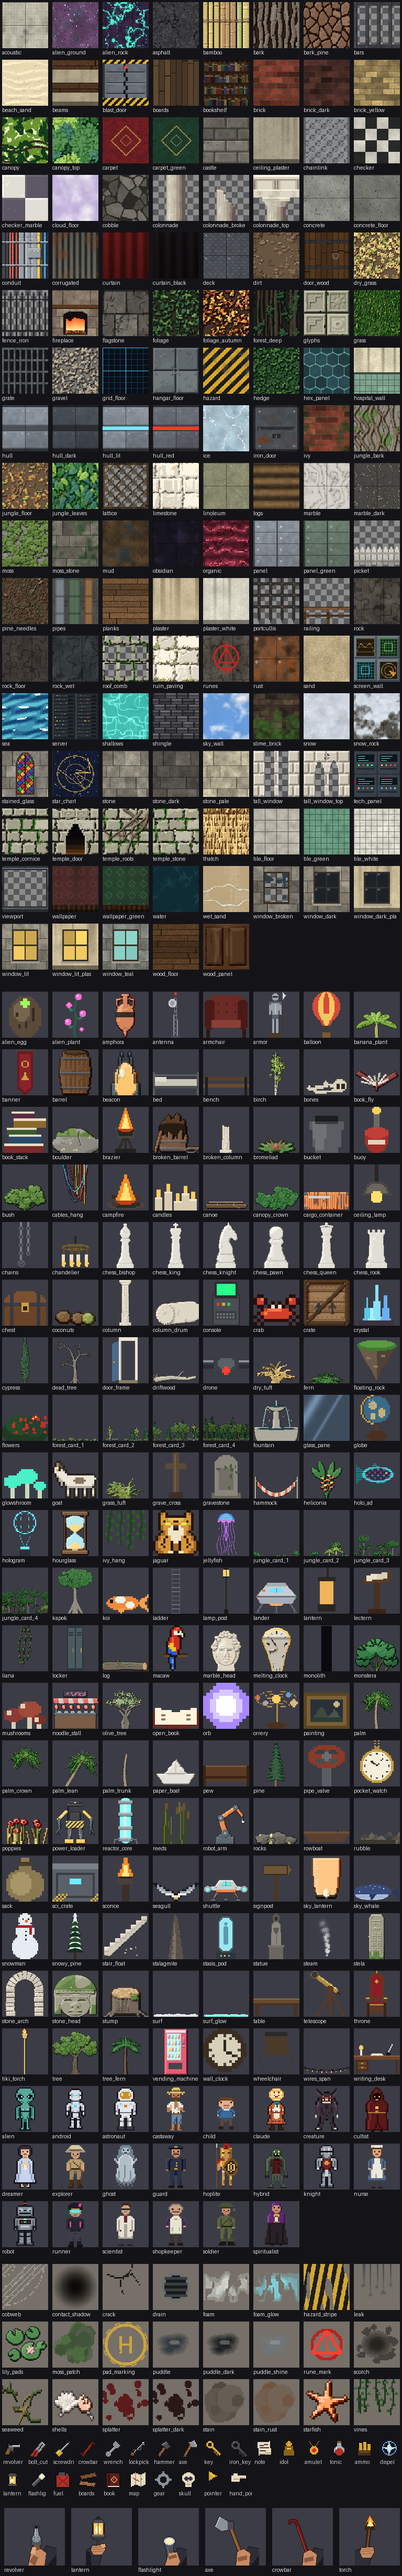
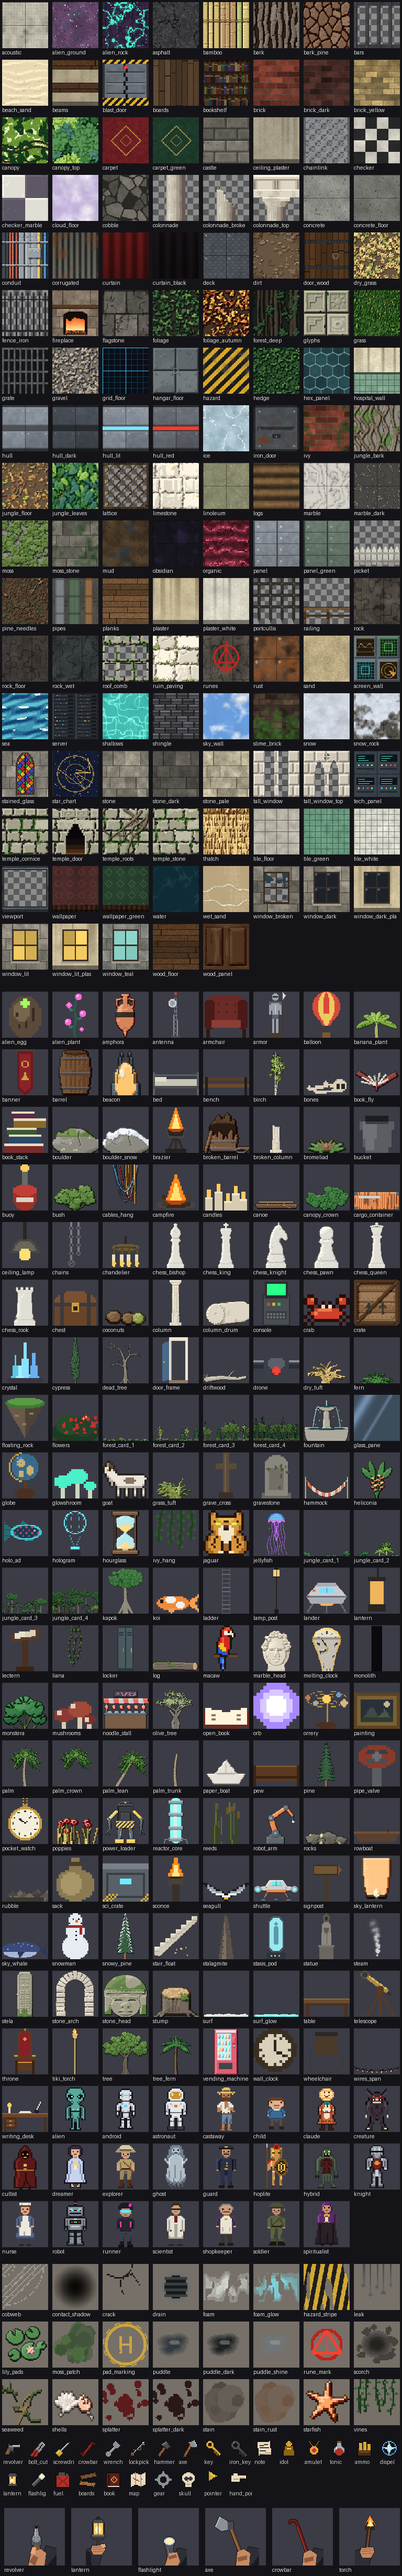
Put snow on the new spruce, and give winter a snow-capped boulder
snowy_pine was the last tree still drawn the first way, flat triangles with snow painted on. It
is now the toolkit spruce under snow: clumps lying along every tier's shoulders, thickest near
the trunk and gone before the drooping tips, crumbs on the hems, a small cap on the leader. The
snow is drawn from its own random stream, so the bare pine is unchanged pixel for pixel.

boulder_snow is the boulder with a cushion of snow over its top instead of moss, deep where the
rock is flat and thin down its steep sides. A `snow` scatter set (stones and snow-capped
boulders) replaces `stones` on the winter lake, whose boulders showed green moss on the snow.

Docs, counts (153 props, 14 scatter sets) and the asset inventory updated; winter gallery shots
and the catalog rebuilt.

Changed region(s): [[0.0, 0.4043, 1.0, 0.8707]]

diff --git a/scripts/forest.py b/scripts/forest.py
@@ -23,6 +23,7 @@ BIRCH_MARK = ramp('#2a2622', dark=0.6, light=1.6)
 FOREST_SOIL = ramp('#4a3a2a', dark=0.35)
 FOREST_MOSS = ramp('#4e6e2c', dark=0.3)
 STONE = ramp('#7a786e', dark=0.35)
+SNOW = ramp('#e2eaf2', dark=0.5, light=1.07, warm=0.0, cool=0.25)
 
 
 def _along(pts, t):
@@ -38,11 +39,10 @@ def _along(pts, t):
 
 # ---------------------------------------------------------------- trees
 
-def spr_pine():
-    """A spruce: a straight trunk under tier on tier of drooping boughs. Each tier is a skirt of
-    needles with a ragged hem hanging over the tier below; lit from the upper left, so every
-    tier has a bright shoulder and a dark underside, and the heart of the tree is in shadow."""
+def _spruce(snow=False):
+    """The spruce, bare or under snow (see spr_pine and spr_snowy_pine)."""
     rng = np.random.default_rng(31)
+    srng = np.random.default_rng(37)        # the snow's own stream, so the bare tree never changes
     w, h = 72, 168
     cx = w / 2
     cv = Canvas(w, h, wrap=False, ground=-9)
@@ -73,7 +73,46 @@ def spr_pine():
             L = rng.uniform(3, 6)
             cv.stroke([(x, y), (x + np.cos(a) * L, y + np.sin(a) * L)], 1.4, z=z + 0.9, dome=0.5,
                       taper=(1.0, 0.5), mat=0, tone=rng.normal(0.02, 0.04))
-    return _prop(cv, [NEEDLE, PINE_BARK], relief=1.0, cavity=0.5, shadow=0.55, reach=6)
+        if snow:
+            _snow_tier(cv, srng, cx, hem, half, tall, skew, drop, z + 1.4, t)
+    if not snow:
+        return _prop(cv, [NEEDLE, PINE_BARK], relief=1.0, cavity=0.5, shadow=0.55, reach=6)
+    cv.ellipse(cx - 0.3, top + 5, 1.2, 1.8, z=3.4, dome=0.8, mat=2)      # a cap on the leader
+    return _prop(cv, [NEEDLE, PINE_BARK, SNOW], relief=1.0, cavity=0.5, shadow=0.55, reach=6)
+
+
+def _snow_tier(cv, rng, cx, hem, half, tall, skew, drop, z, t):
+    """Snow lying on one tier of a spruce: clumps along both shoulders, thickest a little way out
+    from the trunk where the boughs are flattest, thinning to nothing before the drooping tips,
+    and a soft drift across the middle where the tier above does not cover it."""
+    k = float(np.clip(half / 14.0, 0.35, 1.0))     # small tiers near the top carry small clumps
+    for side in (-1, 1):
+        reach = half * (1 + skew * side)
+        for f in np.linspace(0.18, rng.uniform(0.72, 0.9), 4 + int(6 * t)):
+            x = cx + side * reach * f
+            y = hem - tall + (tall + drop * f * f) * f - 1.2
+            fat = np.sin(np.pi * min(1.0, f * 1.15)) ** 0.7
+            cv.ellipse(x + rng.normal(0, 0.6), y + rng.normal(0, 0.4), (1.6 + 2.6 * fat * rng.uniform(0.8, 1.2)) * k,
+                       (0.9 + 1.2 * fat) * max(k, 0.6), z=z, dome=0.7, rough=0.25, rng=rng, mat=2,
+                       tone=0.03 * side * -1)
+        for _ in range(int(2 + 3 * t)):     # crumbs fallen onto the hem below the shoulder
+            f = rng.uniform(0.3, 0.8)
+            cv.ellipse(cx + side * reach * f, hem - 1 + rng.uniform(-1, 1.5), rng.uniform(0.8, 1.6),
+                       rng.uniform(0.6, 1.0), z=z, dome=0.5, mat=2, tone=-0.04)
+
+
+def spr_pine():
+    """A spruce: a straight trunk under tier on tier of drooping boughs. Each tier is a skirt of
+    needles with a ragged hem hanging over the tier below; lit from the upper left, so every
+    tier has a bright shoulder and a dark underside, and the heart of the tree is in shadow."""
+    return _spruce()
+
+
+def spr_snowy_pine():
+    """The spruce after a snowfall: snow lying in clumps along every tier's shoulders, thickest
+    near the trunk and gone before the drooping tips, crumbs of it on the hems, and a cap on the
+    leader. Dark needles show between the tiers, so it still reads as a spruce at a distance."""
+    return _spruce(snow=True)
 
 
 def spr_tree():
@@ -166,9 +205,8 @@ def _rings(cv, cx, cy, rx, ry, n):
         cv.stroke(list(zip(cx + np.cos(a) * rx * f, cy + np.sin(a) * ry * f)), 0.7, dome=0.25, mode='carve')
 
 
-def spr_boulder():
-    """A boulder settled into the ground: a rounded mass with a lesser lobe and a crack or two,
-    lit from the upper left, moss over its top and a few spots of lichen."""
+def _boulder(snow=False):
+    """The boulder, mossy or under snow (see spr_boulder and spr_boulder_snow)."""
     rng = np.random.default_rng(61)
     w, h = 48, 34
     cv = Canvas(w, h, wrap=False, ground=-9)
@@ -179,6 +217,8 @@ def spr_boulder():
     cv.noise(0.15, cells=8, rng=rng)
     solid = cv.id > 0
     moss = (smooth_noise(w, h, 5, rng, wrap=False) > 0.48) & solid & (np.arange(h)[:, None] < h * 0.48)
+    if snow:
+        return _snowcap(cv, rng, solid)
     cv.mat[moss] = 1
     cv.z[moss] += 0.2
     ys, xs = np.nonzero(solid & ~moss)
@@ -186,6 +226,36 @@ def spr_boulder():
         cv.ellipse(xs[i], ys[i], rng.uniform(0.8, 1.5), rng.uniform(0.6, 1.1), z=cv.z[ys[i], xs[i]] + 0.05, dome=0.1,
                    mat=2, rough=0.3, rng=rng)
     return _prop(cv, [STONE, FOREST_MOSS, LICHEN], relief=1.1, cavity=0.5, shadow=0.5)
+
+
+def _snowcap(cv, rng, solid):
+    """Snow over the top of a rock: in each column, a layer from the top of the rock down, deep
+    where the top is flat and thin where it falls away steeply, with a soft lumpy lower edge."""
+    h, w = solid.shape
+    rows = np.arange(h)[:, None]
+    has = solid.any(0)
+    top = np.where(has, solid.argmax(0), h).astype(np.float32)
+    slope = np.abs(np.gradient(np.where(has, top, np.nan)))
+    slope = np.nan_to_num(slope, nan=9.0)
+    lump = smooth_noise(w, 1, 7, rng, wrap=False)[0]
+    depth = np.clip(6.5 - 1.6 * slope, 0.0, 7.0) * (0.75 + 0.5 * lump)
+    cap = solid & (rows < top[None, :] + depth[None, :])
+    cv.mat[cap] = 3
+    cv.z[cap] += 0.45
+    cv.tone[cap] = 0.0
+    return _prop(cv, [STONE, FOREST_MOSS, LICHEN, SNOW], relief=1.1, cavity=0.5, shadow=0.5)
+
+
+def spr_boulder():
+    """A boulder settled into the ground: a rounded mass with a lesser lobe and a crack or two,
+    lit from the upper left, moss over its top and a few spots of lichen."""
+    return _boulder()
+
+
+def spr_boulder_snow():
+    """The boulder under snow: a cushion of it over the top, deep where the rock is flat and thin
+    down the steep sides, the grey rock showing below - for a winter shore instead of moss."""
+    return _boulder(snow=True)
 
 
 def spr_stump():
@@ -443,9 +513,10 @@ TEXTURES = {
 # how strongly the world-space surface noise varies each texture (see assets.TEXTURE_NOISE)
 TEXTURE_NOISE = {'forest_deep': 1.6}
 SPRITES = {'pine': spr_pine, 'tree': spr_tree, 'birch': spr_birch, 'bush': spr_bush, 'boulder': spr_boulder,
-           'stump': spr_stump, 'log': spr_log, 'dead_tree': spr_dead_tree}
+           'stump': spr_stump, 'log': spr_log, 'dead_tree': spr_dead_tree, 'snowy_pine': spr_snowy_pine,
+           'boulder_snow': spr_boulder_snow}
 SPRITES.update({f'forest_card_{k}': (lambda k=k: _forest_card(k)) for k in (1, 2, 3, 4)})
-SPRITE_HEIGHT = {'pine': 3.4, 'tree': 2.6, 'birch': 3.0, 'bush': 0.5,
+SPRITE_HEIGHT = {'pine': 3.4, 'tree': 2.6, 'birch': 3.0, 'bush': 0.5, 'snowy_pine': 3.4, 'boulder_snow': 0.55,
                  'forest_card_1': 1.2, 'forest_card_2': 3.0, 'forest_card_3': 4.0, 'forest_card_4': 4.8}
 # fringe sets: cards back to front, for a wall's `fringe`
 FRINGES = {'forest': ['forest_card_4', 'forest_card_3', 'forest_card_2', 'forest_card_1']}

diff --git a/scripts/assets.py b/scripts/assets.py
@@ -1830,23 +1830,6 @@ def spr_glowshroom():
     return _finish(im, em, w, h)
 
 
-def spr_snowy_pine():
-    w, h = 48, 112
-    im, d, em, de = _canvas(w, h)
-    S = 4
-    d.rectangle([21 * S, 84 * S, 27 * S, 112 * S], fill='#3a2a1c')
-    for i in range(7):
-        half = 23 - 16 * (i / 6.0)
-        base = 96 - 13 * i
-        d.polygon([((24 - half) * S, base * S), ((24 + half) * S, base * S), (24 * S, (base - 26) * S)],
-                  fill=('#16301c', '#1e3c22', '#264828')[i % 3])
-        # snow along each tier's upper slopes
-        d.polygon([((24 - half * 0.75) * S, (base - 6) * S), (24 * S, (base - 26) * S),
-                   ((24 + half * 0.75) * S, (base - 6) * S), (24 * S, (base - 12) * S)], fill='#dce6ee')
-    d.polygon([(19 * S, 20 * S), (29 * S, 20 * S), (24 * S, 0)], fill='#e8eef4')
-    return _finish(im, em, w, h)
-
-
 def spr_snowman():
     w, h = 22, 34
     im, d, em, de = _canvas(w, h)
@@ -2334,7 +2317,7 @@ SPRITES = {
     'reeds': spr_reeds, 'ivy_hang': spr_ivy_hang,
     'throne': spr_throne, 'armor': spr_armor, 'chains': spr_chains, 'chest': spr_chest,
     'table': spr_table, 'pew': spr_pew, 'stalagmite': spr_stalagmite, 'crystal': spr_crystal,
-    'glowshroom': spr_glowshroom, 'snowy_pine': spr_snowy_pine, 'snowman': spr_snowman,
+    'glowshroom': spr_glowshroom, 'snowman': spr_snowman,
     'grave_cross': spr_grave_cross, 'ladder': spr_ladder, 'lectern': spr_lectern,
     'stasis_pod': spr_stasis_pod, 'hologram': spr_hologram, 'sci_crate': spr_sci_crate,
     'drone': spr_drone, 'lander': spr_lander, 'antenna': spr_antenna,
@@ -2361,7 +2344,7 @@ SPRITE_HEIGHT = {
     'bones': 0.22, 'sack': 0.42, 'bucket': 0.32, 'broken_barrel': 0.46,
     'reeds': 0.8, 'ivy_hang': 0.8,
     'throne': 0.95, 'armor': 0.66, 'chains': 0.6, 'chest': 0.3, 'table': 0.36, 'pew': 0.42,
-    'stalagmite': 0.8, 'crystal': 0.36, 'glowshroom': 0.16, 'snowy_pine': 3.4, 'snowman': 0.62,
+    'stalagmite': 0.8, 'crystal': 0.36, 'glowshroom': 0.16, 'snowman': 0.62,
     'grave_cross': 0.55, 'ladder': 1.0, 'lectern': 0.5,
     'stasis_pod': 1.0, 'hologram': 0.55, 'sci_crate': 0.35, 'drone': 0.22, 'lander': 1.6,
     'antenna': 2.4, 'alien_plant': 1.1, 'monolith': 2.2, 'orb': 0.2, 'alien_egg': 0.35,
@@ -2394,6 +2377,7 @@ SIZE_WEIGHTS = {'tiny': 5, 'small': 4, 'medium': 2.5, 'large': 1, 'huge': 0.3}
 # with the odd boulder, not an even mix.
 DEBRIS_SETS = {
     'stones': ['rocks', 'rocks', 'rocks', 'boulder'],
+    'snow': ['rocks', 'rocks', 'rocks', 'boulder_snow'],
     'rubble': ['rubble', 'rubble', 'rocks', 'broken_barrel'],
     'forest': ['rocks', 'rocks', 'log', 'stump', 'mushrooms', 'grass_tuft', 'grass_tuft',
                'fern', 'bush'],

diff --git a/examples/winter_lake.py b/examples/winter_lake.py
@@ -51,7 +51,7 @@ s = scene(
         {'id': 'child', 'x': 24.8, 'y': 31.4, 'type': 'child'},
         {'x': 14.0, 'y': 30.0, 'type': 'log'}, {'x': 25.5, 'y': 9.6, 'type': 'crate'},
     ],
-    scatter=[{'of': 'stones', 'on': 's', 'density': 0.06, 'sizes': ['tiny', 'small', 'medium'], 'seed': 7}],
+    scatter=[{'of': 'snow', 'on': 's', 'density': 0.06, 'sizes': ['tiny', 'small', 'medium'], 'seed': 7}],
     camera={'x': 20.0, 'y': 32.0, 'look_at': [20.0, 7.0, 0.7], 'fov': 70},
     shots=[
         {'x': 20.0, 'y': 32.0, 'look_at': [20.0, 7.0, 0.75], 'fov': 70,

diff --git a/SKILL.md b/SKILL.md
@@ -76,13 +76,13 @@ Stack effects or use presets in `"post"`: crt, crt_amber, crt_green, vhs, gamebo
 - **Alien worlds**: the `alien` sky with a huge `ringed` planet and a moon or two in `sky_objects`, a `sun` light to match their lit side, `alien_ground` with outcrops of `alien_rock` (glowing veins), a pool of tinted water, `alien_plant`, `crystal`, a `monolith` on a raised plateau, and the `alien` scatter set; a `lander` and an `astronaut` for the visitors, the `alien` for the locals. See `examples/alien_world.py`.
 - **Dreams and the surreal**: fill the map with void and draw islands on it under the `dream` sky. They float over a sea of cloud, each with a ragged cliff underneath (`side` sets its texture). Then add a `sky_wall` with a door in it, a staircase to nowhere (`heights` with `height_unit` 0.3), a mirror lake (`obsidian` with `reflect` 0.9), and things adrift at a set `z`: `orb`, `koi`, `sky_whale`, `pocket_watch`, `floating_rock`, `balloon`. An `eye` in `sky_objects` watches. The `dream` post preset blows out bright pastel scenes, so use a gentle `bloom` instead. For impossible architecture: a plain of `checker_marble` (it mirrors), a marble chess set scaled up into a giant game (`chess_pawn` to `chess_king`, tinted dark for one side), a `clock` in `sky_objects` with `melt`, a `melting_clock` over a plinth, `stone_arch`es and `stair_float`s hung in the air, a stair out of the floor to a lone `door_frame`, a hole of void cells in the floor (give its rim a `sky_wall` side), `paper_boat`s on the polish. A drowned library: `bookshelf` walls three storeys high between `tall_window`s, a floor of `water` with `drop` and a high `reflect`, an island of books, and the air full of `jellyfish`, `sky_lantern`s, `book_fly`s, koi and a `sky_whale`; open a few cells of the roof as skylights and the sun comes down through them in beams in a dark, dense fog. See `examples/dream_world.py`, `dream_chess.py` and `drowned_library.py`.
 - **Jungle, ruins and beaches**: a jungle is walls of `jungle_leaves` at a few heights (2.5-4) with `canopy_top` tops and `"fringe": "jungle"`, which stands four layered cards of trees and bushes in front of every face that looks onto open ground - so leave a cell of open ground in front of the walls for it, and make paths two cells wider than they should look. Add a `canopy` ceiling over the paths with a few cells left open for shafts of sun in the mist, `kapok` giants standing clear of it, and `canopy_crown` props on the wall tops so its edge is rounded crowns; plants (`banana_plant`, `monstera`, `heliconia`, `tree_fern`, `liana`, the `jungle` scatter set), a `jaguar` and a `macaw`. A stepped pyramid is rings of `heights` a unit apart, each tier's wall stack ending in `temple_cornice`, stairs up one face, a `temple_door` shrine and a `roof_comb`. Classical ruins: the colonnade wall stacks, `column` props scaled to ~3 along a sacred way, `limestone`, `ruin_paving`, `dry_grass`, `cypress`, `olive_tree`, `marble_head`, `goat`, a `hoplite`, the `ruins` scatter set, under `golden`. A beach: `beach_sand`, a band of `wet_sand`, `shallows` then `sea`, all at ground level; a row of `surf` props along the waterline, `palm` and `palm_lean`, a hut of `["bamboo", "thatch"]` walls, `tiki_torch`, `canoe`, `hammock`, the `beach` scatter set and the `islands` skyline under `sunset`. See `examples/jungle_temple.py`, `ancient_ruins.py`, `tropical_beach.py`.
-- **Castles and dungeons**: `castle` walls, `flagstone` floors, `beams` ceilings, `stained_glass` (glows) in a storey of the wall, `portcullis` and `bars` for gates and cells, with `throne`, `armor`, `banner`, `chains`, `chest`, `table`, `sconce` and `brazier`. Chapels: `stone_pale`, `pew` with `stretch`, `lectern`, `candles` on a raised altar. Caves: `rock_wet` round a sunken pool, `crystal` and `glowshroom` with coloured lights, `stalagmite`, the `cave` scatter set. Sewers: `slime_brick`, `pipes`, a sunken channel with `railing`. Winter: `snow`, `ice` (reflective), `snow_rock`, `snowy_pine`, `snowman`. See `examples/castle_keep.py`, `chapel_graveyard.py`, `crystal_cave.py`, `sewer_tunnels.py`, `winter_lake.py`.
+- **Castles and dungeons**: `castle` walls, `flagstone` floors, `beams` ceilings, `stained_glass` (glows) in a storey of the wall, `portcullis` and `bars` for gates and cells, with `throne`, `armor`, `banner`, `chains`, `chest`, `table`, `sconce` and `brazier`. Chapels: `stone_pale`, `pew` with `stretch`, `lectern`, `candles` on a raised altar. Caves: `rock_wet` round a sunken pool, `crystal` and `glowshroom` with coloured lights, `stalagmite`, the `cave` scatter set. Sewers: `slime_brick`, `pipes`, a sunken channel with `railing`. Winter: `snow`, `ice` (reflective), `snow_rock`, `snowy_pine`, `boulder_snow`, `snowman`, and the `snow` scatter set (stones and snow-capped boulders) instead of `stones`, whose boulders are mossy. See `examples/castle_keep.py`, `chapel_graveyard.py`, `crystal_cave.py`, `sewer_tunnels.py`, `winter_lake.py`.
 - **Interiors**: wall height = `ceiling_height`; lights near walls give textures gradients; break long corridors with doorways and spilled light.
 - **Composition**: one-point perspective down a corridor or path is the classic; 20-40 degrees off-axis adds variety; a close character on one side with the scene behind makes strong encounter shots.
 - **City streets**: build each block of buildings one cell back from where its fronts should stand and give its cells a `facade` (`{"style": ["brick", "sooty"], "storeys": [3, 6], "lit": 0.5, "shops": 0.4}`): the fronts become separate buildings of different heights and brick, with windows set back in the walls, glass, curtains and lit or dark rooms behind. Then pavement, then a road sunk a kerb's height (`drop` 0.05) between, `street_lamp` prefabs, `wet` ground and rain. Show the depth from the pavement, looking along the buildings. Any sprite with `"glass": true` is glass: it shows what is behind it, tinted light blue and softly blurred; `glass_pane` is a plain pane. For a cyberpunk street use `"style": "neon"` (signs on the walls, blade signs over the street, shutters, tinted rooms) with `wires_span` across overhead, a `holo_ad`, a `noodle_stall`, `vending_machine`s, `steam` from the drains and coloured lights under the signs so their colour lands on the wet street; a `bloom` post makes the neon glow. See `examples/rain_alley.py` and `neon_street.py`.
 - **Prefabs place a group with one line**: `{"type": "campsite", "x": 12.5, "y": 20.5}` puts down a fire, logs, stones and its light; `beach_hut` brings its own walls, door, window, roof, torches and lights; `palm_grove`, `jungle_clump`, `fern_bed`, `ruined_columns`, `altar_fire`, `graves`, `street_lamp`, `tiki_torches`, `shrine`, `palm_3d`, `jungle_bush`. `angle` turns one, `seed` varies it. Define your own in `prefab_defs` when a scene repeats a group.
 - **Plants have body**: ferns, grass tufts, bromeliads, banana plants, monstera and other low plants stand as crossed planes (`planes` 2 or 3) rather than billboards, so they look solid from any side; trees stay billboards. Set `"planes": 0` for a flat billboard, or `planes` on any sprite to stand it in the world.
-- **Scatter debris rather than placing it.** `scatter` fills a floor with weighted, size-varied clutter from one line (`{"of": "stones", "on": "s", "density": 1.5}`); sets are `stones`, `rubble`, `forest`, `undergrowth`, `shore`, `litter`, `wreckage`, `cave`, `alien`, `derelict`, `jungle`, `beach`, `ruins`. Density 0.3 is a dusting, 1.5+ is a stony beach. It avoids cameras and speaking characters by itself.
+- **Scatter debris rather than placing it.** `scatter` fills a floor with weighted, size-varied clutter from one line (`{"of": "stones", "on": "s", "density": 1.5}`); sets are `stones`, `snow`, `rubble`, `forest`, `undergrowth`, `shore`, `litter`, `wreckage`, `cave`, `alien`, `derelict`, `jungle`, `beach`, `ruins`. Density 0.3 is a dusting, 1.5+ is a stony beach. It avoids cameras and speaking characters by itself.
 - **Reach for `grime` when somewhere is neglected.** One 0-1 number raises surface variation, debris density and wall/floor wear together, which is usually what "this place is filthy" means.
 - **Dress the floor.** An empty floor is the clearest sign of an unfinished frame. Scatter a few ground props (`rocks`, `rubble`, `bones`, `grass_tuft`, `reeds`, `sack`, `bucket`, `broken_barrel`) and stamp `decals` (puddles, stains, cracks, scorch, moss) along the route the camera actually looks down. A handful placed in shot beats a carpet placed everywhere - check with `--map` that they fall inside the view cone.
 - **Decals over new textures.** Wet patches, blood, vines, soot, water damage and cracks are `decals`, not new wall textures: they cost nothing, stack, and can sit anywhere on a surface. Use `puddle_shine` wherever a light reaches and `puddle_dark` only in dim interiors - a dark puddle on a lit floor reads as a hole.

diff --git a/docs/ASSETS.md b/docs/ASSETS.md
@@ -22,13 +22,13 @@ The smoke test fails while this file is out of date. Sheets show textures tiled 
 | | count | good | polish | rework | new |
 |---|---|---|---|---|---|
 | Textures | 133 | 109 | 24 | 0 | 0 |
-| Props | 152 | 138 | 14 | 0 | 0 |
+| Props | 153 | 139 | 14 | 0 | 0 |
 | Characters | 22 | 20 | 2 | 0 | 0 |
 | Decals | 24 | 19 | 5 | 0 | 0 |
 | Skies | 11 | 11 | 0 | 0 | 0 |
 | Skylines | 6 | 5 | 1 | 0 | 0 |
 | Sky objects | 6 | 6 | 0 | 0 | 0 |
-| Scatter sets | 13 | 13 | 0 | 0 | 0 |
+| Scatter sets | 14 | 14 | 0 | 0 | 0 |
 | Fringe sets | 2 | 2 | 0 | 0 | 0 |
 | Facade styles | 4 | 3 | 1 | 0 | 0 |
 | Prefabs | 13 | 13 | 0 | 0 | 0 |
@@ -39,7 +39,7 @@ The smoke test fails while this file is out of date. Sheets show textures tiled 
 | Post presets | 20 | 20 | 0 | 0 | 0 |
 | Palettes | 9 | 9 | 0 | 0 | 0 |
 | Example scenes | 38 | 31 | 7 | 0 | 0 |
-| **all** | **506** | **446** | **60** | **0** | **0** |
+| **all** | **508** | **448** | **60** | **0** | **0** |
 <!-- /summary -->
 
 ## Pass plan
@@ -250,7 +250,7 @@ Weakest first, and in the order the new scenes need them.
 | `bamboo` | polish |  | tropical_beach | The nodes still line up into a grid across the poles. |
 | `thatch` | polish |  | tropical_beach | The rows could be clearer, each with a shadow under its fringe. |
 
-## Props (152)
+## Props (153)
 
 Camera-facing sprites. "tall" is the default height in world units (a wall is 1); "no shadow" props hang, float or burn, so they get no contact shadow.
 
@@ -303,7 +303,7 @@ Camera-facing sprites. "tall" is the default height in world units (a wall is 1)
 
 | prop | status | traits | used in | notes |
 |---|---|---|---|---|
-| `boulder` | good | 0.55 tall | chapel_graveyard, coast_lighthouse, misty_moor, winter_lake, woodland_night | Redrawn with the toolkit in forest.py: a settled rock with a lesser lobe and cracks, moss over its top, lichen spots. |
+| `boulder` | good | 0.55 tall | chapel_graveyard, coast_lighthouse, misty_moor, woodland_night | Redrawn with the toolkit in forest.py: a settled rock with a lesser lobe and cracks, moss over its top, lichen spots. |
 | `bush` | good | 0.5 tall | chapel_graveyard, coast_lighthouse, woodland_night | Redrawn with the toolkit in forest.py: leaf clusters on fanned twigs, lit on top, dark underneath. |
 | `birch` | good | 3 tall | woodland_night | White trunk and a second stem banded with black, an airy crown of small leaves in drooping clumps. |
 | `dead_tree` | good | 2.9 tall | chapel_graveyard, misty_moor, woodland_night | Redrawn with the toolkit in forest.py: a split trunk on a gnarled foot, bare limbs forking into twigs, grey peeling bark. |
@@ -317,7 +317,8 @@ Camera-facing sprites. "tall" is the default height in world units (a wall is 1)
 | `pine` | good | 3.4 tall | coast_lighthouse, woodland_night | Redrawn with the toolkit in forest.py: a spruce, tier on tier of drooping boughs with ragged hems over a straight trunk. |
 | `reeds` | good | 0.8 tall | coast_lighthouse |  |
 | `rocks` | good | 0.22 tall | alien_world, ancient_ruins, bunker_lab, cathedral_ruin, chapel_graveyard, coast_lighthouse, crystal_cave, derelict_ship, misty_moor, rainy_street, sewer_tunnels, tropical_beach, winter_lake, woodland_night | Redrawn: half-sunk stones with lit tops and the odd crack. |
-| `snowy_pine` | good | 3.4 tall | winter_lake |  |
+| `snowy_pine` | good | 3.4 tall | winter_lake | Drawn with the toolkit in forest.py: the new spruce with snow lying in clumps along every tier's shoulders, crumbs on the hems and a small cap on the leader; dark needles between, so it still reads at a distance. |
+| `boulder_snow` | good | 0.55 tall | winter_lake | Drawn with the toolkit in forest.py: the boulder under a cushion of snow, deep where the top is flat and thin down the steep sides; in the `snow` scatter set. |
 | `stump` | good | 0.3 tall | tropical_beach, woodland_night | Redrawn with the toolkit in forest.py: a pale ringed cut face, furrowed sides, roots, a cushion of moss. |
 | `tree` | good | 2.6 tall | dream_world, garden_encounter, gui_menus, hospital_garden, post_presets, woodland_night | Redrawn with the toolkit in forest.py: an oak with a furrowed trunk on a flared foot, limbs showing between lobes of crown lit from above. |
 | `glowshroom` | polish | 0.16 tall, glows, no shadow | alien_world, crystal_cave | Flat cut-outs; the caps want a gradient and a bright rim. |
@@ -569,13 +570,14 @@ Stamps blended into floors, walls and ceilings. `grime` stamps some of them on i
 | `eye` | good | dream_world |  |
 | `clock` | good | dream_chess | A cream face in a dark rim, twelve ticks, two hands set by `time`, its bottom running like wax (`melt`). |
 
-## Scatter sets (13)
+## Scatter sets (14)
 
 Named mixes for `scatter`; repeats in the contents act as weights.
 
 | set | status | contents | used in | notes |
 |---|---|---|---|---|
-| `stones` | good | rocks x3, boulder | chapel_graveyard, coast_lighthouse, misty_moor, winter_lake |  |
+| `stones` | good | rocks x3, boulder | chapel_graveyard, coast_lighthouse, misty_moor |  |
+| `snow` | good | rocks x3, boulder_snow | winter_lake | The stones set for winter: its boulder is under snow, not moss. |
 | `rubble` | good | rubble x2, rocks, broken_barrel | cathedral_ruin, rainy_street |  |
 | `forest` | good | rocks x2, log, stump, mushrooms, grass_tuft x2, fern, bush | woodland_night |  |
 | `undergrowth` | good | grass_tuft x3, fern, bush, mushrooms | chapel_graveyard, woodland_night |  |
@@ -821,6 +823,7 @@ The environments, judged on their gallery images and shots.
 ## Pass log
 
 - **2026-10-19, pass 0.** First full review of every asset, on review sheets and in the gallery. This file and `docs/asset_review.py` were added.
+- **2026-10-19, snow on the spruce.** `snowy_pine` redrawn from the new spruce, and a `boulder_snow` for winter shores, with a `snow` scatter set to use it (the `stones` set's boulders are mossy); winter_lake uses it.
 - **2026-10-19, everyday things.** The oldest textures and props, which turn up in a great many scenes, redrawn with the toolkit in `scripts/basics.py`: `grass`, `hedge`, `dirt`, `gravel`, `wood_panel`, `water`, `barrel`, `broken_barrel`, `crate`, `fountain`.
 - **2026-10-19, the drowned library.** Sunlight now comes down through skylights - holes in a roof with more roof beyond them, which the roof test used to treat as roofed (the cathedral's beam through its fallen roof got brighter and truer with it). dream.py: `tall_window`/`tall_window_top`, `jellyfish`, `sky_lantern`, `book_fly`. `examples/drowned_library.py` with four gallery shots.
 - **2026-10-19, the chequered plain.** `scripts/dream.py`: a marble chess set turned on a lathe (pawn and king redrawn, rook, knight, bishop and queen new), `melting_clock`, `hourglass`, `stone_arch`, `stair_float`, `paper_boat`, the `checker_marble` floor, and a `clock` sky object that melts. `examples/dream_chess.py`: a giant unfinished game on a floating plain, with four gallery shots.

diff --git a/references/scene_format.md b/references/scene_format.md
@@ -393,7 +393,7 @@ Drawing order: opaque sprites first (they write depth), then translucent/additiv
 
 **Contact shadows.** Every opaque prop or character standing on the floor gets a soft dark stamp under its feet, sized to its width, so nothing looks pasted onto the ground. `contact_shadows` sets the strength for the scene (0.55 by default, `0` for none) and a sprite's `shadow` overrides it. Sprites lifted off the floor (`z` > 0.05), standing on a block, translucent, additive or `fullbright` get none, and nor do fires, light fixtures, hanging and wall-mounted props, ladders, crystals and glowing mushrooms.
 
-Built-in props (152): armor, barrel, bed, bench, birch, boulder, brazier, buoy, bush, campfire, candles, chest, column, console, crate, crystal, dead_tree, fern, flowers, fountain, glowshroom, grave_cross, gravestone, lamp_post, lantern, lectern, locker, log, mushrooms, palm, pew, pine, rowboat, signpost, snowman, snowy_pine, stalagmite, statue, stump, table, throne, tree, wheelchair, plus the wall-mounted, ground, sci-fi, dream and study props listed below. `crystal` and `glowshroom` glow (pair them with a coloured light); `pew`, `table` and `bench` take `stretch` for length.
+Built-in props (153): armor, barrel, bed, bench, birch, boulder, boulder_snow, brazier, buoy, bush, campfire, candles, chest, column, console, crate, crystal, dead_tree, fern, flowers, fountain, glowshroom, grave_cross, gravestone, lamp_post, lantern, lectern, locker, log, mushrooms, palm, pew, pine, rowboat, signpost, snowman, snowy_pine, stalagmite, statue, stump, table, throne, tree, wheelchair, plus the wall-mounted, ground, sci-fi, dream and study props listed below. `boulder_snow` is the boulder under a cap of snow, for winter (the `snow` scatter set uses it). `crystal` and `glowshroom` glow (pair them with a coloured light); `pew`, `table` and `bench` take `stretch` for length.
 
 - Sci-fi and alien: `stasis_pod` (lit glass, a sleeper inside; tint it dark for a dead one), `hologram` (a wireframe world over its emitter, with a soft glow), `sci_crate`, `drone` (float it with `z`), `lander` (a landing craft, 1.6 tall), `antenna`, `alien_plant` (glowing pods), `monolith`, `alien_egg`. For hangars and engine rooms: `shuttle` (a short-hop craft on landing legs, 2.2 tall, engines and cockpit lit), `cargo_container` (corrugated, faded orange; tint it for other colours and stack one on another with `z` 1.2), `power_loader` (a hazard-yellow exosuit with forks), `beacon` (an amber warning light; give it a light of its own), `reactor_core` (a glowing column 2.8 tall in steel collars), `robot_arm` (a welding arm on a turntable), `cables_hang` (slack cables from the ceiling: set `z` near the ceiling; no contact shadow). For a neon street: `vending_machine` (a lit front of cans), `noodle_stall` (lanterns, a neon sign, pots on the counter), `steam` (a see-through plume: stand it on a drain or a pot), `holo_ad` (a hologram koi drawn in light, additive: float it over the street with `z`), `wires_span` (wires slung across a street with lanterns on them: `planes` 1 by default; give it an `angle` across the street, a `length` and a `z` of 2.5-3.5).
 - Dream and surreal: `orb` (a floating light with its own glow), `floating_rock` (an islet of earth adrift), `door_frame` (a door standing on its own), `sky_whale` (stars along its back; float it high), `koi`, `pocket_watch`, `balloon`, a whole chess set in marble - `chess_pawn`, `chess_rook`, `chess_knight`, `chess_bishop`, `chess_queen`, `chess_king` (tint them dark for the other side; scale them up for a giant game) - `melting_clock` (a clock gone soft: stand it just off the front face of a block with its `z` set so the fold lies on the edge), `hourglass`, `stone_arch` (a lone archway, 2.4 tall; it floats with `z`), `stair_float` (a flight of stairs broken off at both ends), `paper_boat` (it sails on a mirror floor), `jellyfish` (a bell of light trailing tentacles; additive, so it glows - float it with `z`), `sky_lantern` (a paper lantern lit from inside, drifting up), `book_fly` (an open book flying on its covers). `checker_marble` is a polished floor of black and white marble squares (mirror 0.35); `tall_window` and `tall_window_top` are a gothic window in pale stone, see-through between its leads, to stack two or three storeys high: `["tall_window", "tall_window", "tall_window_top"]`. Things meant to float carry no contact shadow, so set their `z` and they hang in the air. Over a void floor `z` is simply height above z=0.
@@ -621,7 +621,7 @@ result is deterministic for a given seed.
 
 | field | meaning |
 |---|---|
-| `of` | a named set (`stones`, `rubble`, `forest`, `undergrowth`, `shore`, `litter`, `wreckage`, `cave`, `alien`, `derelict`, `jungle`, `beach`, `ruins`), a sprite name, or a list. Repeats inside a set act as weights |
+| `of` | a named set (`stones`, `snow`, `rubble`, `forest`, `undergrowth`, `shore`, `litter`, `wreckage`, `cave`, `alien`, `derelict`, `jungle`, `beach`, `ruins`), a sprite name, or a list. Repeats inside a set act as weights |
 | `on` | legend characters to scatter on, as a string or list. Omit for every open cell |
 | `density` | items per eligible cell. 0.3 is a light dusting, 1.5+ is a stony beach |
 | `sizes` | size classes to draw from: a list, or a dict of weights. Classes are `tiny`, `small`, `medium`, `large`, `huge`, multiplying the prop's default height |

diff --git a/README.md b/README.md
@@ -104,7 +104,7 @@ Asked what it would look like and where it would want to be, Claude picked a sma
 - **Volumetric fog**: mist that lies low and drifts in banks, halos round every lamp, and beams of sun or moonlight through windows, doorways, standing stones and trees; sunlight finds its way into roofed rooms through their doorways, windows and skylights
 - **Reflections**: water, ice, wet streets and puddles mirror the lamps, windows and figures beyond them
 - **The 90s look**: 320x200 framebuffer, Bayer-dithered 256-colour palette, chunky nearest-neighbour upscale, optional scanlines and 2x supersampling
-- **Sprites**: 152 procedural props - scenery, light fixtures, wall decorations, castle furnishings, jungle plants, classical ruins, beach gear, sci-fi gear, alien flora, dream objects, animals, debris and vegetation - a 22-character pixel-art cast, each with a back view for over-the-shoulder shots, any PNG, or new pixel art written as text grids right in the scene
+- **Sprites**: 153 procedural props - scenery, light fixtures, wall decorations, castle furnishings, jungle plants, classical ruins, beach gear, sci-fi gear, alien flora, dream objects, animals, debris and vegetation - a 22-character pixel-art cast, each with a back view for over-the-shoulder shots, any PNG, or new pixel art written as text grids right in the scene
 - **Planar sprites**: a plant can stand as fixed planes in the world instead of a billboard - a cross of two, or a star of three that cuts the ground round it into sixths - so it has body as the camera moves; the low plants do by default, and a prefab can mix billboards and planes (a billboard palm trunk under a star of fronds)
 - **Layered forest edges**: give the walls of a jungle or a wood a `fringe` and every face that looks onto open ground gets long cards of plants standing in front of it, sparse bushes at the front to a dense wall of trunks and crowns at the back, so the edge of the forest has real depth
 - **City streets with depth**: give a block of buildings a `facade` and its fronts become separate buildings - different heights, brick, paint and windows - each drawn in layers: the wall, then frames and glass set back in it, curtains and blinds behind, and lit or dark rooms behind those, so the windows have real depth as the camera moves; the wall has its thickness, so from an angle every window and door shows its brick sides, lintel and sill
@@ -123,7 +123,7 @@ Asked what it would look like and where it would want to be, Claude picked a sma
 - **Post-processing**: colour grading, bloom, vignette, grain, lightning, letterbox, damage flash, fade, pixelate, posterize, gradient maps, retro palettes (Game Boy, CGA, EGA, amber, phosphor, sepia...), CRT curvature and shadow mask, VHS chroma bleed and tracking, chromatic aberration; 20 one-word presets
 - **Authoring tools**: a render report after every shot (too dark, blown out, a hidden or tiny subject, a wall in the lens, a camera inside a wall - each with a fix), `look_at` camera aiming, top-down layout maps with camera cones, contact sheets, a material catalog, and `maptools.Grid` for building maps in Python
 - **Pixel art drawn in code**: the jungle, ruins and beach are built from shapes - leaves, stones, planks, blades of grass, carved glyphs - stamped into a height field, lit from one direction, and snapped onto hue-shifted colour ramps with dark edges on their shadow sides (`scripts/pixelart.py`), so they read as pixel art rather than noise
-- **No assets to download**: all 133 textures, 152 props, 22 characters, 24 decals, the skies and the font are generated in code, so the whole thing is a few hundred KB of Python
+- **No assets to download**: all 133 textures, 153 props, 22 characters, 24 decals, the skies and the font are generated in code, so the whole thing is a few hundred KB of Python
 
 ![Character cast](docs/gallery/cast.png)
 
